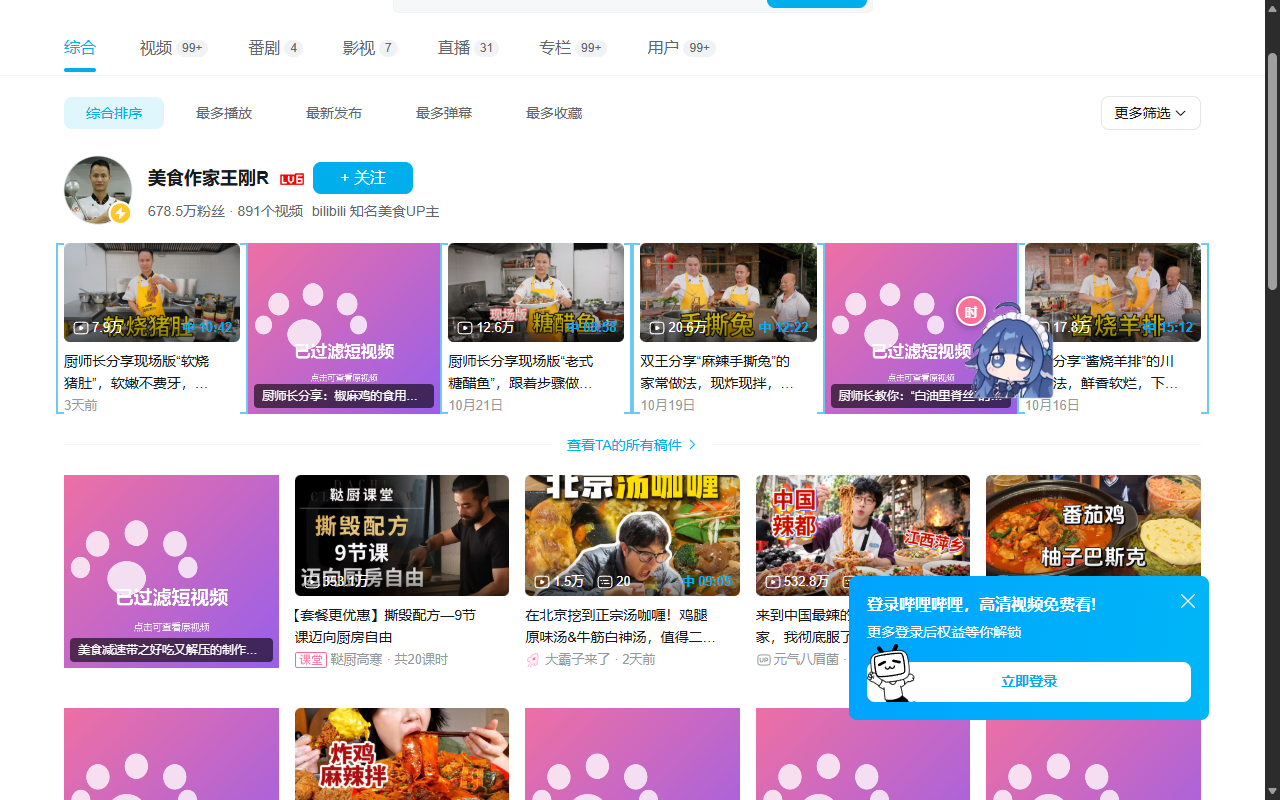
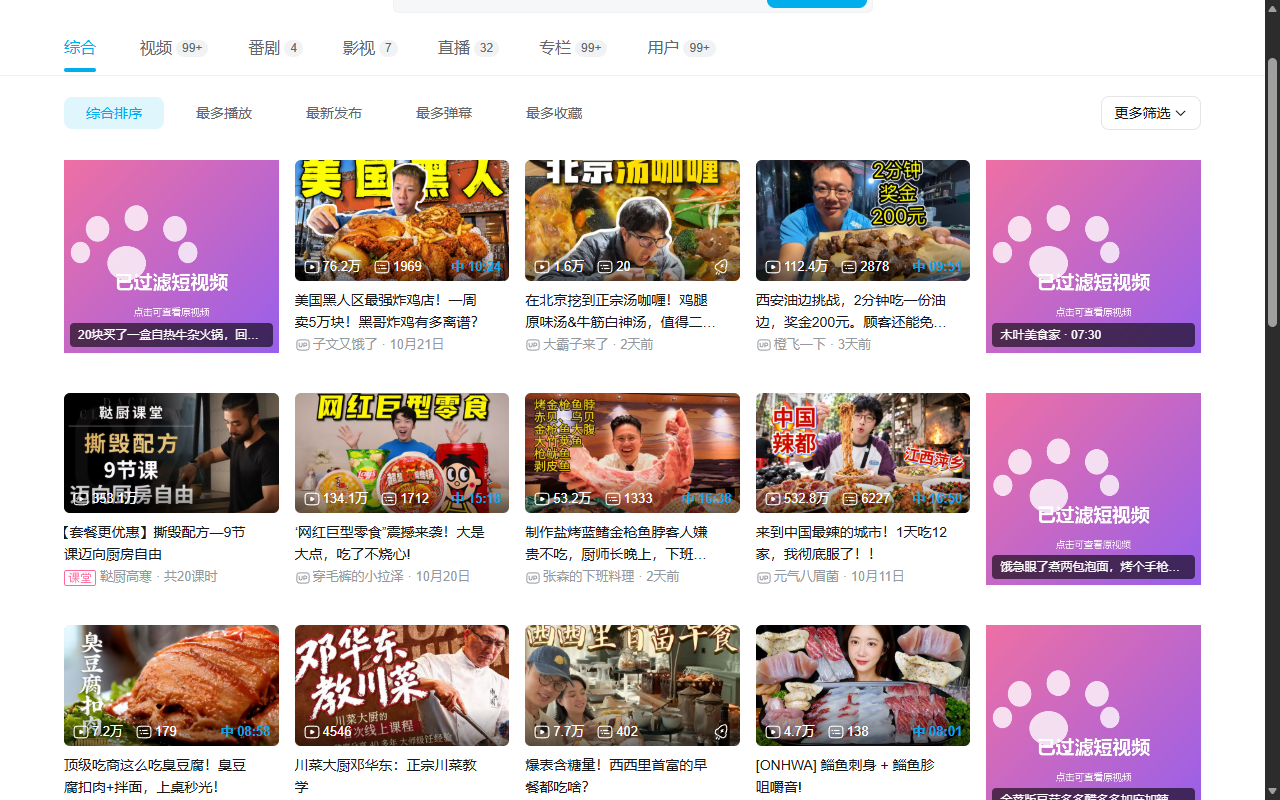
docs: reshoot store screenshots without the bilibili login prompt

diff --git a/docs/商店文案.md b/docs/商店文案.md
@@ -118,11 +118,11 @@ short video blocker
 
 已拍好 5 张，存放在 `docs/screenshots/`，尺寸就是 1280×800，可直接上传。按下面顺序提交，顺序即卖点顺序：
 
-1. `01-store-home.png` —— **首页分类 + 遮挡**。8 张卡片带「短」「中」标签，其中 2 张短视频被占位图盖住，右下角挂件完整在框内。
-2. `02-store-search.png` —— **搜索页过滤**。搜索结果里 10 张带标签、7 张被遮，一屏看出过滤密度。
-3. `03-store-pet-panel.png` —— **桌宠 + 快捷面板**。面板整块落在画面内，上下没被裁。
-4. `04-store-popup.png` —— **弹窗设置页**。阈值、开关、三组遮挡照片一屏全见。弹窗本身 300px 宽，出图时按 0.9 缩放居中摆放，控件内容没有改动。
-5. `05-store-unhide.png` —— **点击放行**。与第 1 张同位置、同配置，左键点掉一张后被遮卡片恢复成正常封面。
+1. `01-store-home.png` —— **首页分类 + 遮挡**。7 张卡片在视口内，15 张带档位标记（彩色描边 + 时长前的「短/中/长」），其中 5 张短视频被猫爪占位图盖住，右下角挂件完整在框内。
+2. `02-store-search.png` —— **搜索页过滤**。搜索结果里 7 张带时长标记、4 张被盖住，一屏看出过滤密度。
+3. `03-store-pet-panel.png` —— **桌宠 + 快捷面板**。面板 rect 700,180–960,612，四条边都在画面内，挂件在 980,200 不被压住。
+4. `04-store-popup.png` —— **弹窗设置页**。阈值、开关、三组遮挡照片一屏全见。弹窗本身 300px 宽，出图时按 0.9 缩放居中摆放（实测 bottom 761，没被裁），控件内容没有改动。
+5. `05-store-unhide.png` —— **点击放行**。与第 1 张同位置、同配置、同一次页面加载，用真实鼠标事件左键点掉一张后，被遮卡片恢复成正常封面。像素比对：全画面只有 5.96% 变化，其中 74% 集中在被点的那张卡片，其余区域不动。
 
 第 6 张（可选）：照片组管理特写，把弹窗下半部分放大单独截一张。
 
@@ -131,6 +131,7 @@ short video blocker
 - 出图前把视口固定成 1280×800，别截全屏再拉伸
 - 关掉书签栏和其他扩展图标，右上角别露出个人账号信息（头像、UP 主 ID）
 - 遮挡照片用自己的图，别拿有版权的角色图做宣传图
+- B 站未登录时页面自带 `.login-tip` 登录引导块（实测 360×144，压在右下角，文案「登录哔哩哔哩，高清视频免费看」），会和桌面挂件抢位置。截图前注入 `.login-tip,.login-btn{display:none}` 隐掉，重拍时别忘了这一步
 
 ## 9. Single purpose description（单一用途说明）
 
